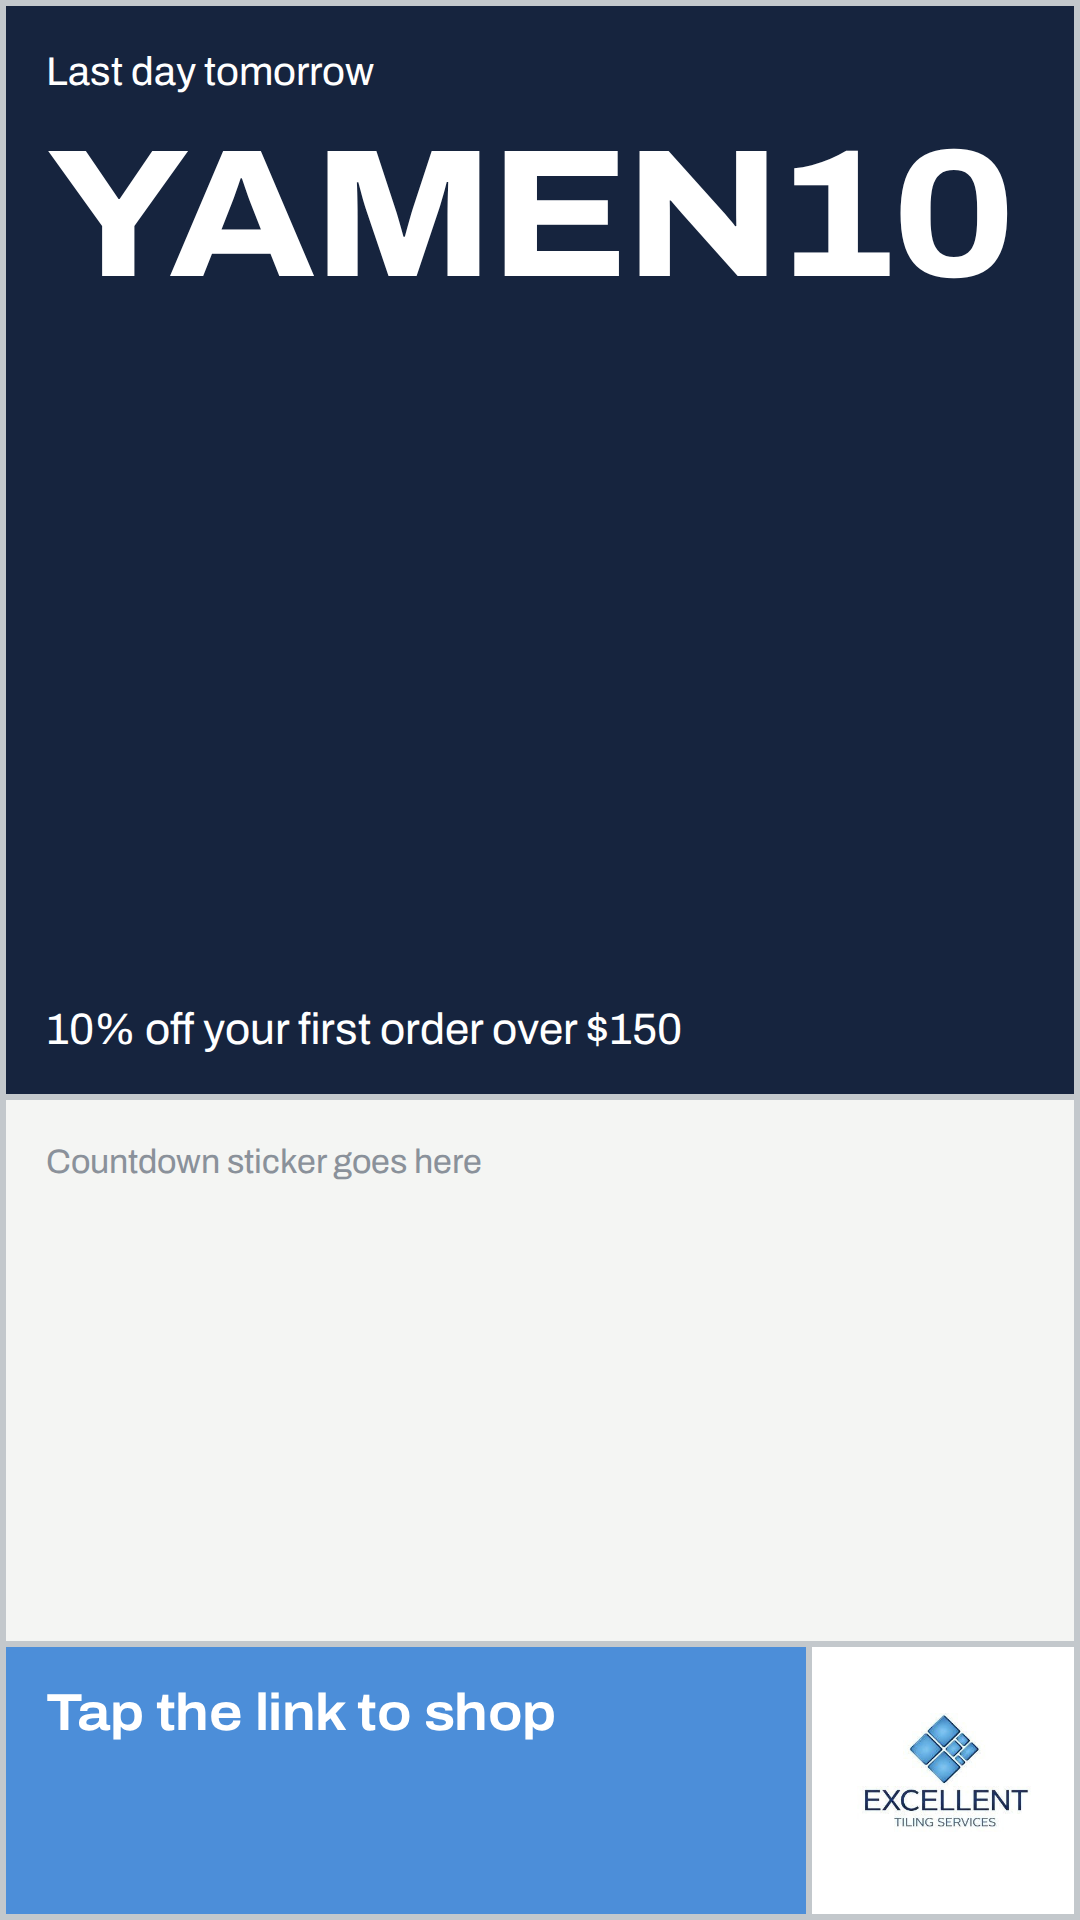
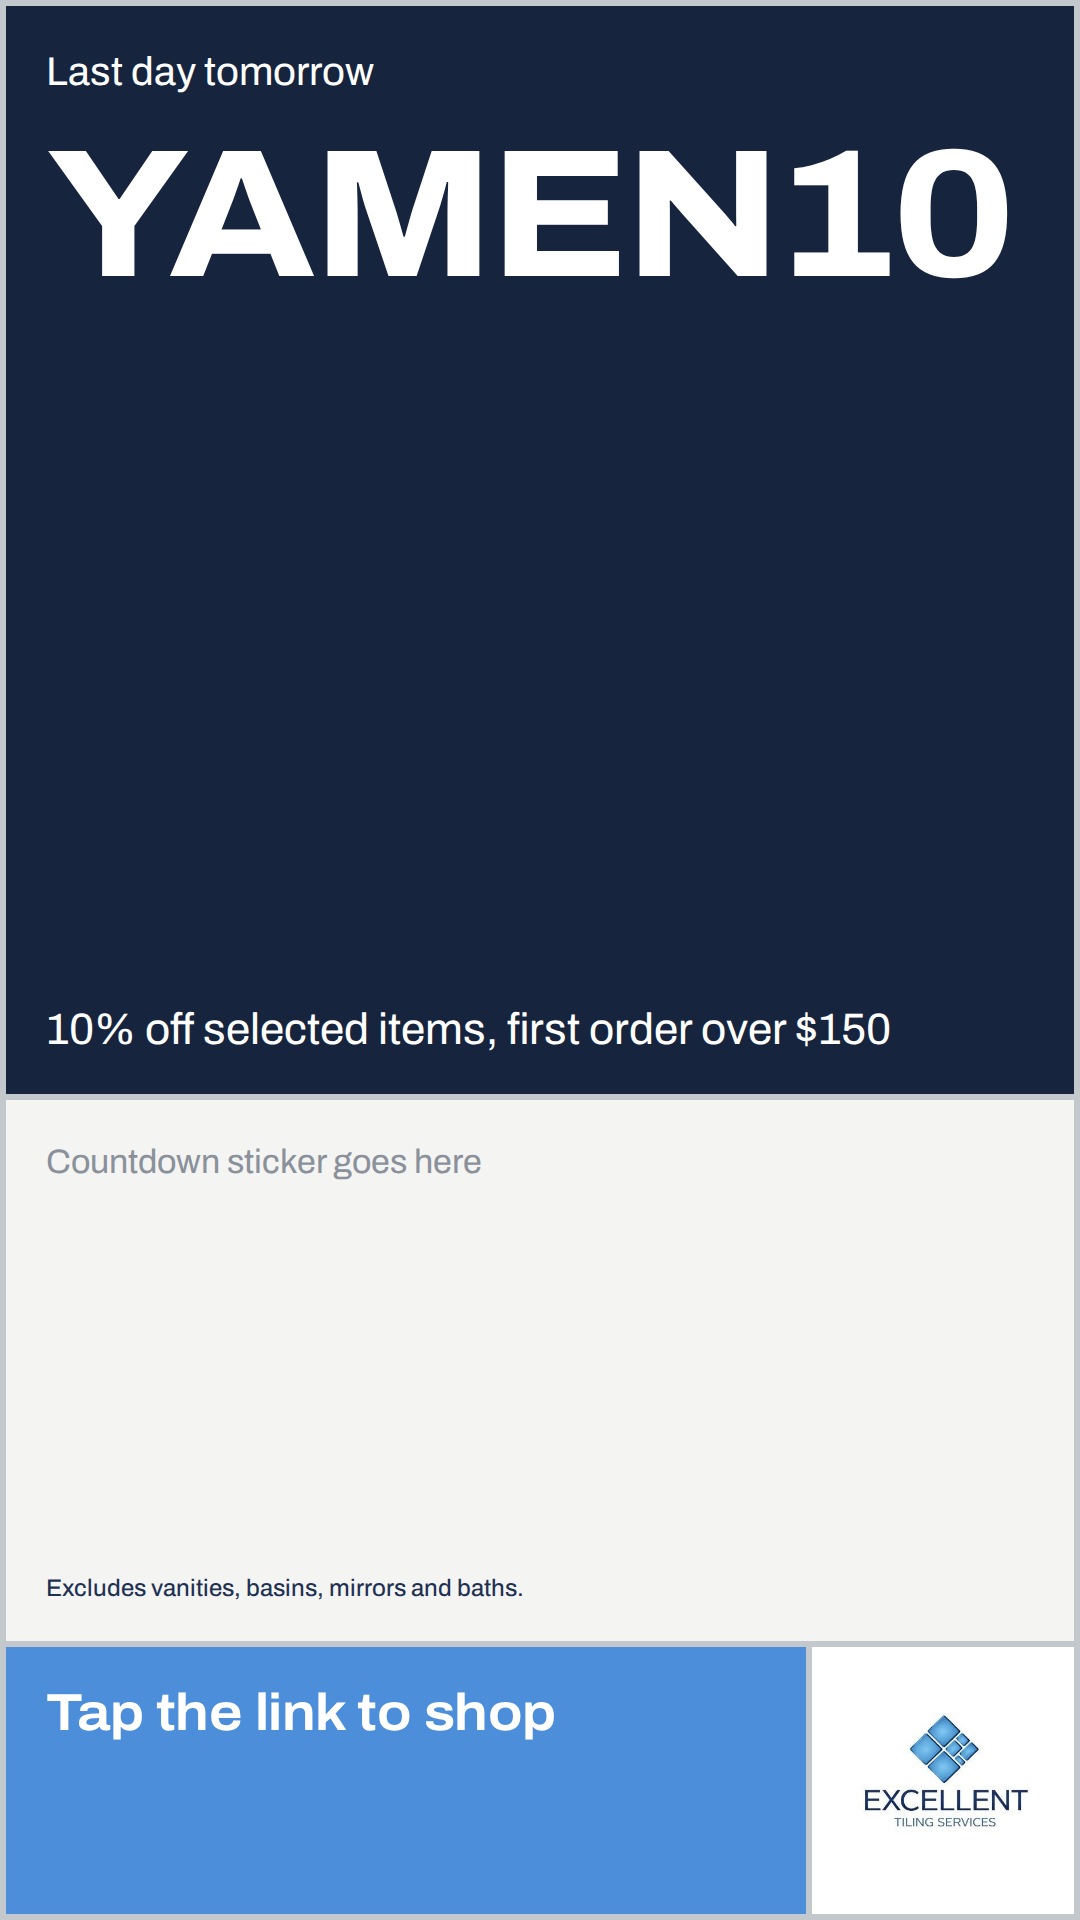
YAMEN10: exclusion wording on code graphics; document the scoped discount
Claude-Session: https://claude.ai/code/session_01Y6UKLN7V2VAdSWW4mDpHRp

Changed region(s): [[0.1833, 0.5312, 0.825, 0.5625], [0.0611, 0.8125, 0.275, 0.8438], [0.3056, 0.8125, 0.4889, 0.8438]]

diff --git a/marketing/finish-it-right/source/build.py b/marketing/finish-it-right/source/build.py
@@ -34,7 +34,7 @@ posts={
 'A2-1-cover':
  img('brittany2.jpg','1/5','1/4')+
  f'<div class="t" {a("1/4","4/6")}><h1>Our online store is open</h1><p class="bot">Tiles, tapware and vanities from a Perth tiling business, at the prices we pay to fit them out.</p></div>'+
- f'<div class="t navy" {a("4/5","4/5")}><h2 style="font-size:86px">10%</h2><p class="small bot">off your first order over $150</p></div>'+
+ f'<div class="t navy" {a("4/5","4/5")}><h2 style="font-size:86px">10%</h2><p class="small bot">off selected items, first order over $150</p></div>'+
  LOGO('4/5','5/6'),
 'A2-2-flova':
  img('flova.png','1/5','1/4','fit')+
@@ -53,8 +53,8 @@ posts={
  f'<div class="t" {a("1/4","5/6")}><h2 style="font-size:52px">Porcelain tiles from $37.40/m²</h2><p class="small" style="margin-top:14px">Perth delivery or free pickup. Sold by the full box.</p></div>'+
  f'<div class="t blue" {a("4/5","5/6")}></div>',
 'A2-5-code':
- f'<div class="t deep" {a("1/5","1/4")}><p>Use code</p><div class="code" style="margin-top:30px">YAMEN10</div><p class="bot" style="font-size:40px">10% off your first order over $150</p></div>'+
- f'<div class="t" {a("1/4","4/6")}><h2>Ends Sunday 8&nbsp;November</h2><p class="bot">{URL}</p></div>'+
+ f'<div class="t deep" {a("1/5","1/4")}><p>Use code</p><div class="code" style="margin-top:30px">YAMEN10</div><p class="bot" style="font-size:40px">10% off selected items, first order over $150</p></div>'+
+ f'<div class="t" {a("1/4","4/6")}><h2>Ends Sunday 8&nbsp;November</h2><p class="small" style="margin-top:18px">Excludes vanities, basins, mirrors and baths.</p><p class="bot">{URL}</p></div>'+
  f'<div class="t blue" {a("4/5","4/5")}></div>'+LOGO('4/5','5/6'),
 'C3-showroom':
  f'<div class="t navy" {a("1/5","1/4")}><h1 style="font-size:132px">Work all day?<br>So do we.</h1><p class="bot" style="font-size:38px">Our Maddington showroom opens in the evening, by appointment.</p></div>'+
@@ -64,7 +64,7 @@ posts={
 'D3-last-call':
  img('hail-room.jpg','1/5','1/3')+
  f'<div class="t deep" {a("1/5","3/5")}><p>Last call</p><div class="code" style="margin-top:24px">YAMEN10</div><h2 class="bot" style="font-size:58px">Ends Sunday 8 November</h2></div>'+
- f'<div class="t" {a("1/4","5/6")}><p>10% off your first order over $150, tiles to tapware.</p><p class="small" style="margin-top:12px">{URL}</p></div>'+LOGO('4/5','5/6'),
+ f'<div class="t" {a("1/4","5/6")}><p>10% off selected items on your first order over $150.</p><p class="small" style="margin-top:12px">Excludes vanities, basins, mirrors and baths. {URL}</p></div>'+LOGO('4/5','5/6'),
 }
 
 posts.update({
@@ -110,8 +110,8 @@ posts.update({
  f'<div class="t navy" {a("1/5","4/6")}><h1 style="font-size:116px">Chrome or matt black?</h1><p class="bot" style="font-size:38px">Same mixer, $189 or $217. Vote below.</p></div>'+
  f'<div class="t" {a("1/5","6/8")}><p style="font-size:34px;color:#8a919a">Poll sticker goes here</p></div>',
 'S-countdown':
- f'<div class="t deep" {a("1/5","1/5")}><p style="font-size:40px">Last day tomorrow</p><div class="code" style="margin-top:40px">YAMEN10</div><p class="bot" style="font-size:44px">10% off your first order over $150</p></div>'+
- f'<div class="t" {a("1/5","5/7")}><p style="font-size:34px;color:#8a919a">Countdown sticker goes here</p></div>'+
+ f'<div class="t deep" {a("1/5","1/5")}><p style="font-size:40px">Last day tomorrow</p><div class="code" style="margin-top:40px">YAMEN10</div><p class="bot" style="font-size:44px">10% off selected items, first order over $150</p></div>'+
+ f'<div class="t" {a("1/5","5/7")}><p style="font-size:34px;color:#8a919a">Countdown sticker goes here</p><p class="small bot">Excludes vanities, basins, mirrors and baths.</p></div>'+
  f'<div class="t blue" {a("1/4","7/8")}><h2 style="font-size:52px">Tap the link to shop</h2></div>'+LOGO('4/5','7/8'),
 'S-showroom':
  f'<div class="t navy" {a("1/5","1/4")}><h1 style="font-size:132px">Open tonight, 4:30 to 9</h1></div>'+

diff --git a/marketing/finish-it-right/README.md b/marketing/finish-it-right/README.md
@@ -16,6 +16,15 @@ Ready-to-post graphics. Feed posts are 1080×1350 (Instagram/Facebook portrait);
 | R-B1 / R-C1 / R-D1 | Reel covers: unboxing, vanity install, tiling mistakes |
 | S-poll / S-countdown / S-showroom / S-trade | Story frames (add the poll/countdown sticker in Instagram) |
 
+## Discount code YAMEN10
+
+Shopify code (scheduled): 10% off, $150 minimum, one use per customer, 12 Oct 00:00 to 8 Nov 23:59 Perth.
+It only applies to the hidden, unpublished collection `yamen10-eligible`: the 292 products whose every
+variant stays at or above the 20% profit floor after 10% off (from `store-pricing-2026-10-03.csv`). That
+is all tiles and most tools/tapware; no vanities, basins, mirrors or baths. Products added later are
+not in it, so add them by hand if they qualify. Every post that mentions the code carries
+"Excludes vanities, basins, mirrors and baths."
+
 The posting schedule and captions are in the owner's Google Calendar. Prices are as of 4 Oct 2026;
 re-check before reposting after a price change. Never name the tile supplier.
 
